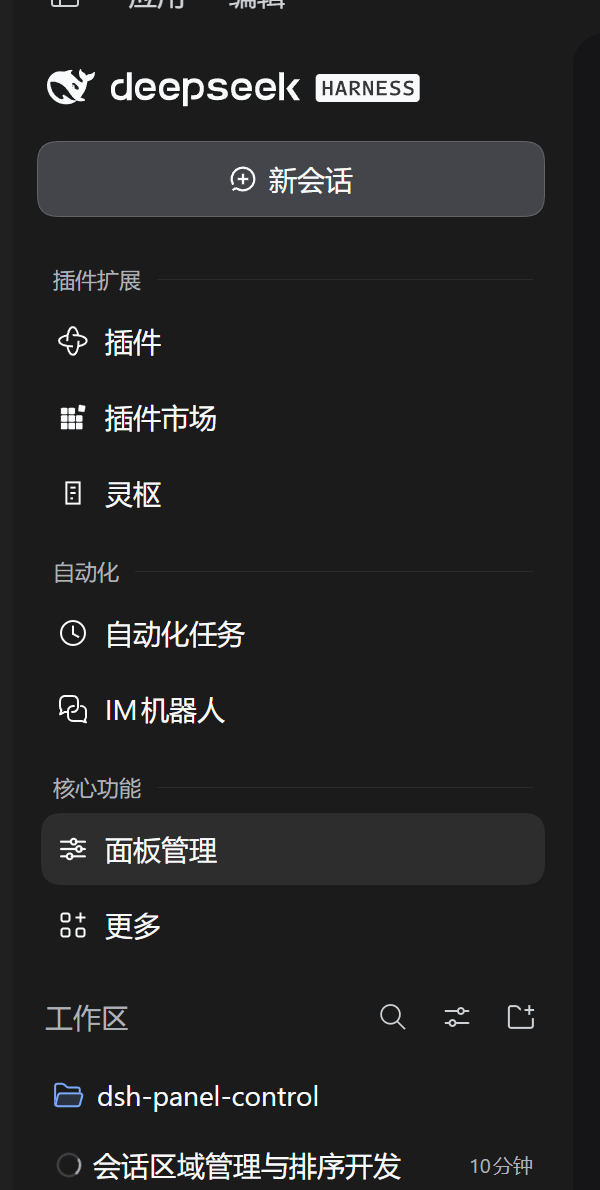
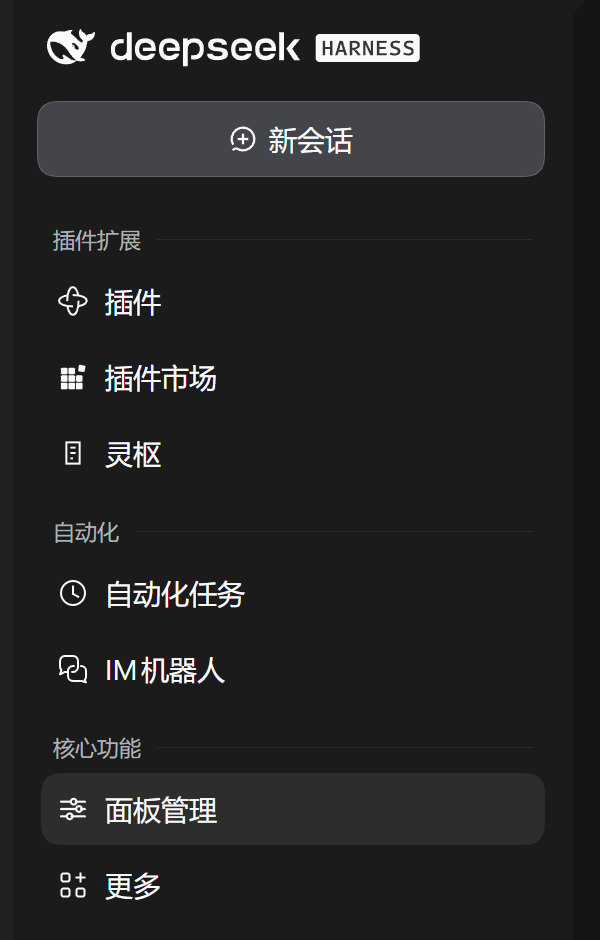
0.10.1: refresh README and package intro

diff --git a/client.js b/client.js
@@ -5,7 +5,7 @@
   // Everything below therefore lives inside this closure. Re-evaluation must stay possible: when the
   // plugin is switched off the loader drops our factory, so switching it back on re-executes this
   // script and needs the registration that follows.
-  const BUILD_STAMP = 'dsh-panel-control/0.10.0';
+  const BUILD_STAMP = 'dsh-panel-control/0.10.1';
   try { window.__dpcEvaluated = BUILD_STAMP; } catch { /* ignore */ }
 /**
  * Client half of dsh-panel-control.

diff --git a/README.md b/README.md
@@ -1,44 +1,39 @@
 # dsh-panel-control · 侧栏面板管理
 
-管理 DeepSeek Harness 侧栏顶部那一列插件入口（插件、插件市场、自动化任务、灵枢、工作区管理……）：排序、隐藏、分组、折叠；导航项变多时，还会托住下方的会话与工作区列表。
+管理 DeepSeek Harness 侧栏顶部那一列插件入口：排序、隐藏、分组、折叠。导航项变多时，也为下方的会话与工作区列表留出空间。
+
+![界面预览：左右树与自动分类](https://raw.githubusercontent.com/QIUZAIYOU/dsh-panel-control/v0.10.1/assets/screenshot-panel.png)
+
+*界面预览 · 示例数据*
 
 ## 功能
 
-- **排序** — 左侧暂存区里拖动行首把手换位；拖进分组后，组内顺序就是侧栏里的顺序。也可以一键按名称 A→Z，或恢复注册时的默认顺序。
-- **隐藏** — 行右侧的眼睛图标。隐藏项仍留在列表里，随时放回；不影响插件是否加载，也不写插件自己的配置。
-- **重命名** — 行右侧的铅笔图标把名称改成你熟悉的叫法，`Enter` 或失焦保存，`Esc` 取消，清空即恢复原名。改名只改侧栏显示，不动插件自己的配置；宽侧栏下改过名的行会在最右侧显示插件包名小标签（省略 `dsh-` 前缀，可在「侧栏布局」里关掉），避免时间久了忘记它原本是谁。
-- **分组树** — 设置页左边是未分组入口，右边是分组，像文件树一样。未分组的入口只在这里出现，不显示在侧栏；拖进右边的组标题或组内才会出现，拖回左边就移出分组。组内拖动调整该组在侧栏里的顺序，拖动组标题调整组与组的先后。侧栏会在组与组之间插入带标题的分隔线。分组行右侧的眼睛可以整组隐藏；它只覆盖分组状态，组内单行原有的隐藏状态会原样保留。
-- **折叠** — 侧栏里点分组标题收起该组，只留标题与计数；`Enter` / 空格同样可切换，状态写进配置。设置页里组标题前的箭头也能收起这一组，隐藏的分组默认就是收起状态；箭头只影响设置页的展开视图，不会写配置，也不会改变侧栏的显隐。侧栏收成图标条时不显示标题，也不折叠。
-- **侧栏溢出兜底** — 导航项变多时，官方侧栏会把下方的会话/工作区列表压到 0 高且无法滚动（[讨论 #12083](https://github.com/deepseek-ai/deepseek-harness/discussions/12083)）。本插件给导航列表加上限高与滚动，给下方区域留最小高度。
-- **自动分类** — 用当前 profile 的默认模型读入口名称，自动分成 2–4 组。只处理没见过的入口，不会改动你排好的顺序；手动拖过的入口会记入锁定。开关旁有两个手动按钮：**只分未动过的**跳过这些锁定项；**全部分类**一次性重新分配所有入口，但不会清除锁定，之后的安全分类仍会跳过它们。
-- **设置页补入口** — 有的第三方插件只注册了设置页（`settings.section`），却没给面板入口，设置页只能从设置弹窗里翻到。本插件为这类插件自动补一行侧栏入口：点开就是宿主渲染的完整设置页，顶部带「返回对话」；不依赖插件白名单，整体可在「侧栏布局」里关掉。
+- **分组树** — 设置页左边是未分组入口，右边是分组。拖进组里即归类，拖到组内某个位置即排序；拖回左边就是移出分组。只要有一个已填充分组，未分组入口就不再出现在侧栏，左栏只作暂存区。
+- **排序** — 拖动行首把手调整顺序。组内顺序就是侧栏里的顺序，拖动组标题调整组与组的先后；也可以按名称排序或恢复默认。
+- **隐藏与重命名** — 行尾眼睛隐藏入口，铅笔修改显示名。两者都只改这份安装的显示层，不影响插件加载，也不写插件自己的配置。
+- **折叠** — 侧栏里点分组标题收起该组，`Enter` / 空格同样可切换，状态写进配置。设置页里隐藏的分组默认收起；组标题前的箭头只影响设置页视图，不改变侧栏显隐。
+- **自动分类** — 用当前 profile 的默认模型把入口分成 2–4 组。手动拖过的入口会锁定，安全按钮「只分未动过的」跳过它们；「全部分类」一次性重新分配所有入口，但不清除锁定，之后的自动分类仍会跳过。
+- **设置页补入口** — 第三方插件只注册了设置页、没有侧栏入口时，自动补一行；点开是宿主渲染的完整设置页。可在「侧栏布局」里整体关掉。
+- **侧栏溢出兜底** — 给导航列表加上限高与滚动，避免下方的会话/工作区列表被压到零高（[讨论 #12083](https://github.com/deepseek-ai/deepseek-harness/discussions/12083)）。
 - **面板管理自己不可隐藏** — 避免把自己锁在门外；未接管的节点（如「更多」）始终排在最后。
 
 ## 界面
 
-![面板管理](assets/screenshot-panel.png)
+侧栏分组效果：
 
-侧栏分组后的效果：
+![侧栏分组效果](https://raw.githubusercontent.com/QIUZAIYOU/dsh-panel-control/v0.10.1/assets/screenshot-sidebar-groups.png)
 
-![侧栏分组效果](assets/screenshot-sidebar-groups.png)
+两个入口：侧栏导航里的「面板管理」，以及 **设置 → 面板管理**。两边是同一套管理界面。
 
-两个入口：侧栏导航里的「面板管理」行，以及 **设置 → 面板管理**（同一套管理界面整块嵌在设置页）。
-
-管理界面是一棵左右树：左栏是未分组入口的暂存区，右栏是分组与组内成员。左栏的入口在拖进分组前不显示在侧栏（「面板管理」自己例外，避免把自己锁在门外）；拖到右侧组标题或组内即归类，拖回左栏即移出。组内顺序与组间顺序都在这里调整。删除分组不会删除入口，成员会回到左栏暂存区。右栏里隐藏的分组默认收起，只留标题；点标题前的箭头展开，再点眼睛恢复显示时会回到展开状态。
-
-补出来的设置页入口也出现在同一个侧栏列表里，排在普通入口之后、本插件自己之前；标题沿用设置页自己的名称，重复时附带设置页 id 以区分。
-
-改过名的入口仍把原来的注册名留在按钮属性里，引擎靠它把自己映射回同一条注册，所以宿主的排序、重渲染和后续重扫都不受影响；行尾标签显示的是插件包名（由 Host 从安装目录的 `package.json` 解析，`dsh-` 前缀已省略），屏幕阅读器与工具提示读到的则是你设定的显示名。
+删除分组不会删除入口：成员回到左栏暂存区，只要还有其它已填充分组，就不再显示在侧栏。补出的设置页入口沿用设置页自己的名称，重复时附带 id 区分。
 
 ## 安装
 
-要求 DeepSeek Harness `>= 0.2.1-rc.3`（更旧的版本缺少本插件依赖的槽与模块图接口，宿主会拒绝加载）。
-
-从 npm 安装（推荐）：
+要求 DeepSeek Harness `>= 0.2.1-rc.3`。
 
 ```bash
 cd C:/Users/<you>/.dsh/profiles/desktop
-npm install dsh-panel-control@0.10.0
+npm install dsh-panel-control@0.10.1
 ```
 
 把包名加进同一目录 `package.json` 的 `dsh.profile.bundles`：
@@ -47,77 +42,40 @@ npm install dsh-panel-control@0.10.0
 "dsh": { "profile": { "bundles": [ ..., "dsh-panel-control" ] } }
 ```
 
-`npm install` 会把包（含 `client.js` 与 `cordis.patch.yml`）放进 profile 的 `node_modules`，不需要再建目录链接。
+装好后需要一次页面重载（界面里的刷新按钮，或重启 DSH）。
 
-本地开发用 `link:` 指向工作副本，再建目录链接（免管理员）：
+## 配置
 
-```bash
-cd C:/Users/<you>/.dsh/profiles/desktop
-cmd //c mklink /J node_modules\dsh-panel-control D:\Github\dsh-panel-control
-```
+布局写在 Host 侧：`~/.dsh/panel-control/prefs.json`。包含顺序、隐藏项、分组、分组隐藏状态、自定义名称、折叠状态、布局开关、设置页入口开关、包名标签开关、分组成员数开关、手动锁定项与分类结果。
 
-装好后需要一次页面重载才会加载新的 bundle（界面里的刷新按钮，或重启 DSH）。
+页面 origin 是 Host 的 loopback 端口，每次启动都会换端口，所以 `localStorage` 只作为镜像；真实配置在 Host 侧，按安装维度生效，不跟随工作区。
 
-## 侧栏布局与折叠
-
-官方 `dsh-client-ui-sidebar` 把导航列表设为 `flex: none`，把下方区域设为 `flex: 1; overflow: hidden`。导航项一多，列表独占高度，下方被压成 0 高且没有可滚动容器——滚轮看起来"失灵"，其实是没东西可滚。
-
-本插件不改宿主代码，只从三个属性出发写 CSS：
-
-| 属性 | 加在哪 | 作用 |
-| --- | --- | --- |
-| `data-dpc-list` | 导航列表容器 | `overflow-y: auto` + 高度上限 `max(120px, var(--dpc-panellist-max, 45vh))` |
-| `data-dpc-unbounded` | 同上（选择「不限」时） | 取消高度上限，列表按内容撑开 |
-| `data-dpc-region` | 列表下方的会话/工作区区域 | 保留最小高度 `min(120px, 18vh)` |
-
-设置页「侧栏布局」卡片里可以调整：
-
-- 高度兜底开关，以及 35 / 45 / 55 / 不限 四档上限；
-- 分组折叠开关，以及「全部收起 / 全部展开」；
-- 设置页入口开关（默认开）。关掉后补出来的行会连同注册一起撤掉，不只是藏起来；
-- 包名标签开关（默认开）。关掉后改名仍然生效，只是行尾不再显示包名；
-- 分组成员数开关（默认关）。打开后设置页分组行与侧栏分组标题都显示该组入口数，关掉两处都不显示；
-- 折叠状态按分组 id 记在配置里，重启后保留；设置页里的组收起只是本次视图状态，隐藏组默认收起。
-
-## 配置与存储
-
-布局写在 Host 侧：`~/.dsh/panel-control/prefs.json`（`~` 是这个 profile 的用户目录）。包含顺序、单行隐藏项、分组、分组隐藏状态、自定义名称、折叠状态、布局开关、设置页入口开关、包名标签开关、分组成员数开关、手动锁定项与分类结果。
-
-页面 origin 是 Host 的 loopback 端口，每次启动都会换端口，`localStorage` 会因此"看起来每次清空"——所以真实存储放在 Host 侧，`localStorage` 只留镜像；读不到 Host 时才回退到镜像。配置按安装维度生效，不跟随工作区。
+「侧栏布局」里可以调整：高度兜底与上限、分组折叠、设置页入口、包名标签、分组成员数。成员数默认关闭。
 
 ## 排错
 
-- **侧栏没有「面板管理」**：先重载一次页面。仍没有，看 `~/.dsh/panel-control/host.log` 与 `client.log`。
-- **设置页入口没补出来**：`host.log` 里先搜 `bridge-scan`，启动后的前几次扫描会列出当时可见的设置页（`id:registrant`）和侧栏条目；再搜 `kind=bridge` 看最终补出的 id。目标插件出现在 `sections` 里但 `ids` 没它，说明它的 section id 或 label 与某个已有面板重合，被归属规则当成了已有入口；始终不出现，是它的设置页注册得比扫描更晚（见 `docs/bridged-settings-pages.md`）。
-- **补出的设置页和设置弹窗里不一样（英文、缺控件）**：先看同一条 `bridge-scan` 的 `wiring` 字段，`i/l/s` 分别表示该 section 的 inject / locale / store 是否带到了桥接条目上；三个都缺多半是宿主条目结构变了（注册面在条目顶层，不在 `options` 里）。若 `wiring` 齐全但页面仍不同，则是该设置页依赖设置弹窗的私有上下文，属于边界情况。
-- **插件管理显示运行，界面却没变化**：页面多半还在用旧的 bundle revision（刚改过 `client.js` 时常见），重载一次即可。
-- **改了代码没反应**：确认 `BUILD_STAMP` 与 `package.json` 的版本一致，并跑一遍 `npm run check`。
+- **侧栏没有「面板管理」**：先重载页面；仍没有，看 `~/.dsh/panel-control/host.log` 与 `client.log`。
+- **设置页入口没补出来，或补出来和设置弹窗不一样**：查看 `host.log` 的 `bridge-scan`；`wiring` 的 `i/l/s` 分别对应 inject / locale / store。详见 [设置页补入口](docs/bridged-settings-pages.md)。
+- **界面改了却没变化**：页面可能还在用旧的 bundle revision，重载一次。
+- **改了代码没反应**：确认 `BUILD_STAMP` 与 `package.json` 版本一致，并运行 `npm run check`。
 
-## 开发与测试
+## 开发
 
 ```bash
-npm run check     # 语法检查 + 宿主路由 smoke + 布局/桥接/改名静态与行为断言
-npm run smoke     # 只跑宿主路由用例
+npm run check     # 语法、宿主路由、布局、桥接与改名断言
+npm run smoke     # 只跑宿主路由
 npm run doctor    # 体检 profile 安装状态
 ```
 
-- `.scratch/harness.html`：引擎测试页（伪造 DOM 与 ctx），覆盖排序、隐藏、分组、折叠、脏数据清洗。
-- `scripts/host-smoke.mjs`：驱动宿主侧路由，覆盖设置读写、分类请求与 bundle 兜底。
-- `scripts/layout-smoke.mjs`：断言侧栏布局的 CSS 钩子与关键数值、左右树的容器与拖拽标记、隐藏组默认收起的 chevron 与条件渲染，并校验 `BUILD_STAMP` 与版本号一致。
-- `scripts/bridge-smoke.mjs`：在假 ctx 上跑 `client.js`，断言只给「有设置页、没有侧栏入口」的第三方插件补行，且成对注册 main、开关关闭后整体撤回、桥接页经自有子槽交给宿主渲染并能返回对话。
-- `scripts/names-smoke.mjs`：用迷你 DOM 驱动真实引擎，断言改名覆盖宿主标题与 `aria-label`、包名标签的位置与开关、清空恢复、窄侧栏不出标签、重复名称仍能按位置映射、未知包不显示标签、组内顺序决定侧栏顺序、未分组暂存、隐藏组默认收起且折叠时不挂载子项，以及 `dispose` 后 DOM 原样归还；最后用假 hooks 真跑一遍管理组件，确认左右树与空组投放区都渲染出来。
-
-进一步材料：[docs/sidebar-layout.md](docs/sidebar-layout.md)（布局与折叠实现）、[docs/renaming-panels.md](docs/renaming-panels.md)（重命名与包名标签）、[docs/bridged-settings-pages.md](docs/bridged-settings-pages.md)（设置页补入口的识别与渲染）、[docs/ui-design-notes.md](docs/ui-design-notes.md)（界面规范与踩坑）、[docs/discussion-bundle-evaluated-twice.md](docs/discussion-bundle-evaluated-twice.md)（bundle 被求值两次的事故复盘）。
+进一步材料：[侧栏布局](docs/sidebar-layout.md)、[重命名](docs/renaming-panels.md)、[设置页补入口](docs/bridged-settings-pages.md)、[界面规范](docs/ui-design-notes.md)。
 
 ## 边界
 
 - 自动分类会把入口名称发给当前 profile 配置的模型服务商；不想要就关掉开关，分组仍可手动编辑。
-- 分类结果只是建议，可以整体重排或改名。
 - 依赖宿主侧栏的 DOM 结构（`[class*="panelList"]` 与面板按钮的 `aria-label`），官方大改版时需要跟进。
-- 重命名只覆盖侧栏的显示层：宿主标题文本、`aria-label` 与包名标签都是本插件写的，插件自己的配置和入口 id 不变；宿主重渲染后由下一次扫描补回。图标条模式没有标题文本，只改可访问名称，也不显示包名标签。包名由 Host 从模块所在安装目录的 `package.json` 解析（模块 id 不等于包名，例如 `dsh-enhance-ui` → `@wufeng0105/dsh-enhance`），接口不可用或解析不到时该行不显示标签。
 - 只写 `style.order`、`style.display` 与 `data-dpc-*` 属性，不移动 React 节点，不改宿主代码。
 - 排序、隐藏、分组都只影响本机这份安装。
-- 设置页入口按「section id / label 是否已被某个面板占用」识别归属，不依赖插件声明的注册者（client runner 会把多个插件报成同一个名字）；代价是启发式：与面板同名的第三方设置页会被视为已有入口，新增内置设置页需要更新 `CORE_SECTION_IDS`。第三方设置页按宿主渲染器原位渲染，若它自己依赖设置弹窗的私有上下文，可能出现布局差异。
+- 设置页归属按 section id / label 识别，是启发式：与面板同名的第三方设置页会被视为已有入口。第三方设置页若依赖设置弹窗的私有上下文，可能出现布局差异。
 
 ## 许可
 

diff --git a/AGENTS.md b/AGENTS.md
@@ -35,3 +35,5 @@
 
 - `BUILD_STAMP` 与 `package.json` 的版本必须一致（`scripts/layout-smoke.mjs` 会检查）。
 - 改完 `client.js` 必跑 `npm run check`；它包含 `--check` 语法、host smoke 和静态布局断言。
+- 发版前同步 README 的功能、安装版本和截图，并把 `package.json.description` 写成中文一句话；
+  截图只放当前版本界面或明确标注的预览，裁掉账号、会话与工作区信息。
